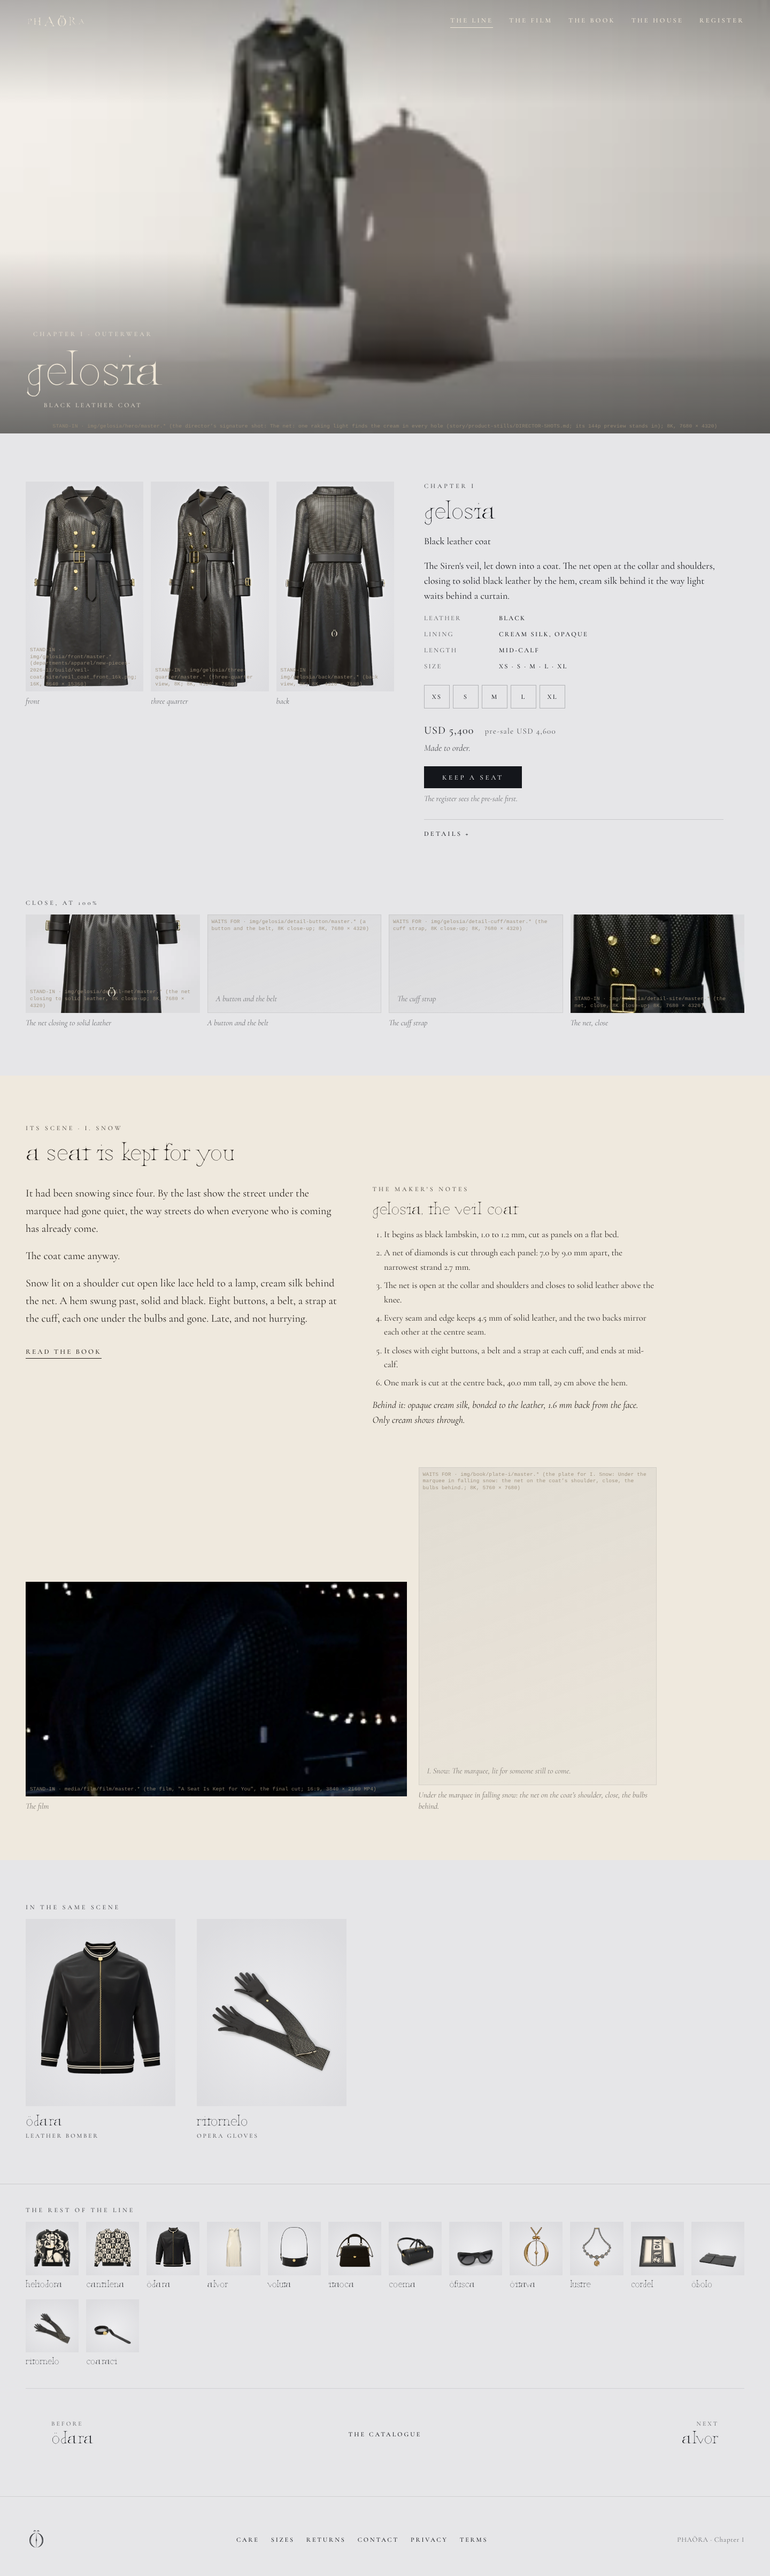
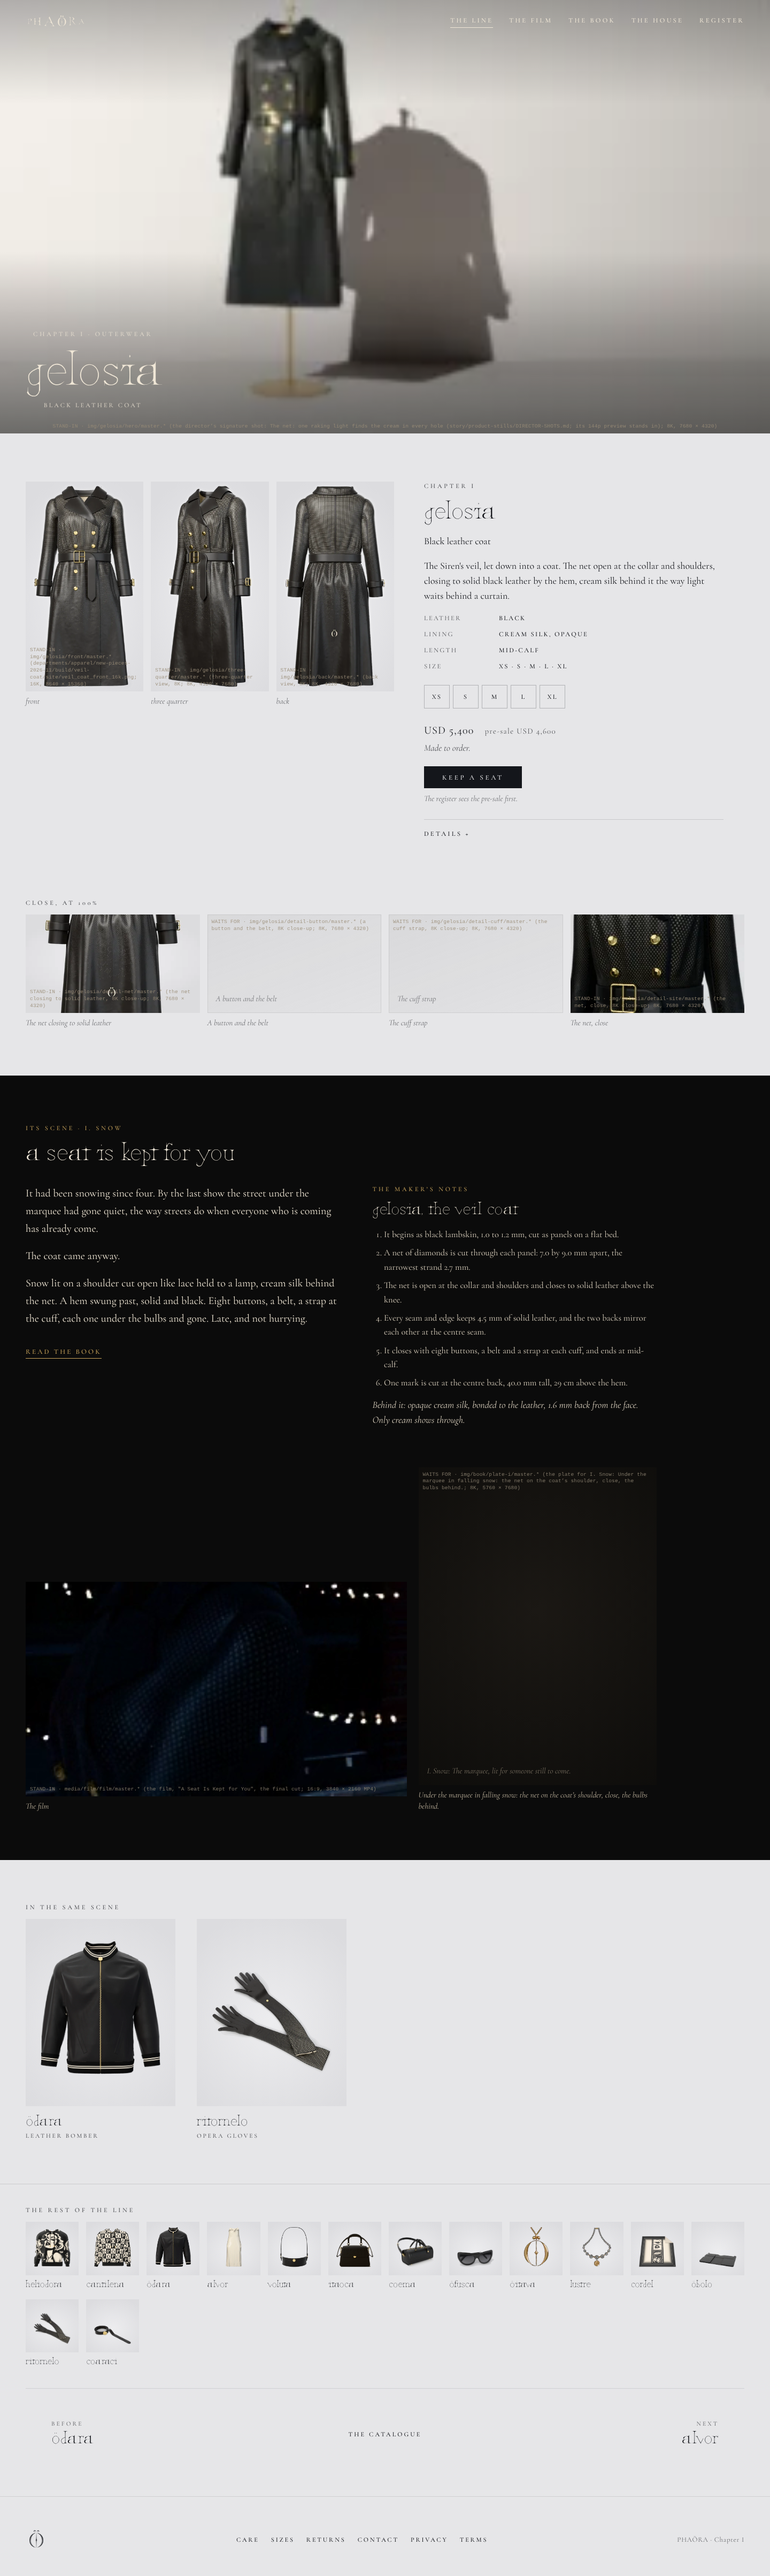
Site rebuild: the scene band near-black on every piece page; all 15 room slides checked for legibility
Claude-Session: https://claude.ai/code/session_0133zY8WYR2Yz4VqDzteq4sV

Changed region(s): [[0.0, 0.4051, 1.0, 0.7478]]

diff --git a/chapter-1/assets/css/site.css b/chapter-1/assets/css/site.css
@@ -439,7 +439,16 @@ body.onblack.overwalk:not(.menu-open) .top,body.onblack.overwalk .top .lettering
 .macro{padding:30px 48px 80px}
 .macro .strip{display:grid;grid-auto-flow:column;grid-auto-columns:minmax(260px,1fr);gap:14px;overflow-x:auto;scroll-snap-type:x mandatory;padding-bottom:8px}
 .macro .mc{margin:0;scroll-snap-align:start}
-.scene{background:var(--paper,#efe8dc);color:var(--pink,#2b1d1d);padding:90px 48px}
+.scene{background:#0b0b0b;color:#e9e0cf;padding:90px 48px}   /* David, 14 Nov: "agreed, dark": the house lights go down */
+.scene .eyebrow,.scene .sn .eyebrow{color:var(--gold);opacity:1}
+.scene .more-link{color:var(--gold)}
+.scene h2,.scene .sn h3{color:#f1e9da}
+.scene .story p{color:#e9e0cf}.scene .sn ol,.scene .sn .close{color:#d9cfbd}
+.scene .cap{color:#bfb39d;opacity:1}
+.scene .slot{background:#141210;outline:0}
+.scene .slot.waiting .ph{background:radial-gradient(80% 70% at 50% 45%,#1b1814,#0e0d0b);outline:0}
+.scene .slot.waiting .phl{color:#8f8573;opacity:.8}
+.scene .tag{color:#8f8573}
 .scene h2{margin:0 0 34px}
 .scene-in{display:grid;grid-template-columns:minmax(0,1.1fr) minmax(0,1fr);gap:64px;max-width:1180px}
 .scene .story p{font-size:20px;line-height:1.65;margin:0 0 18px;max-width:34em}
